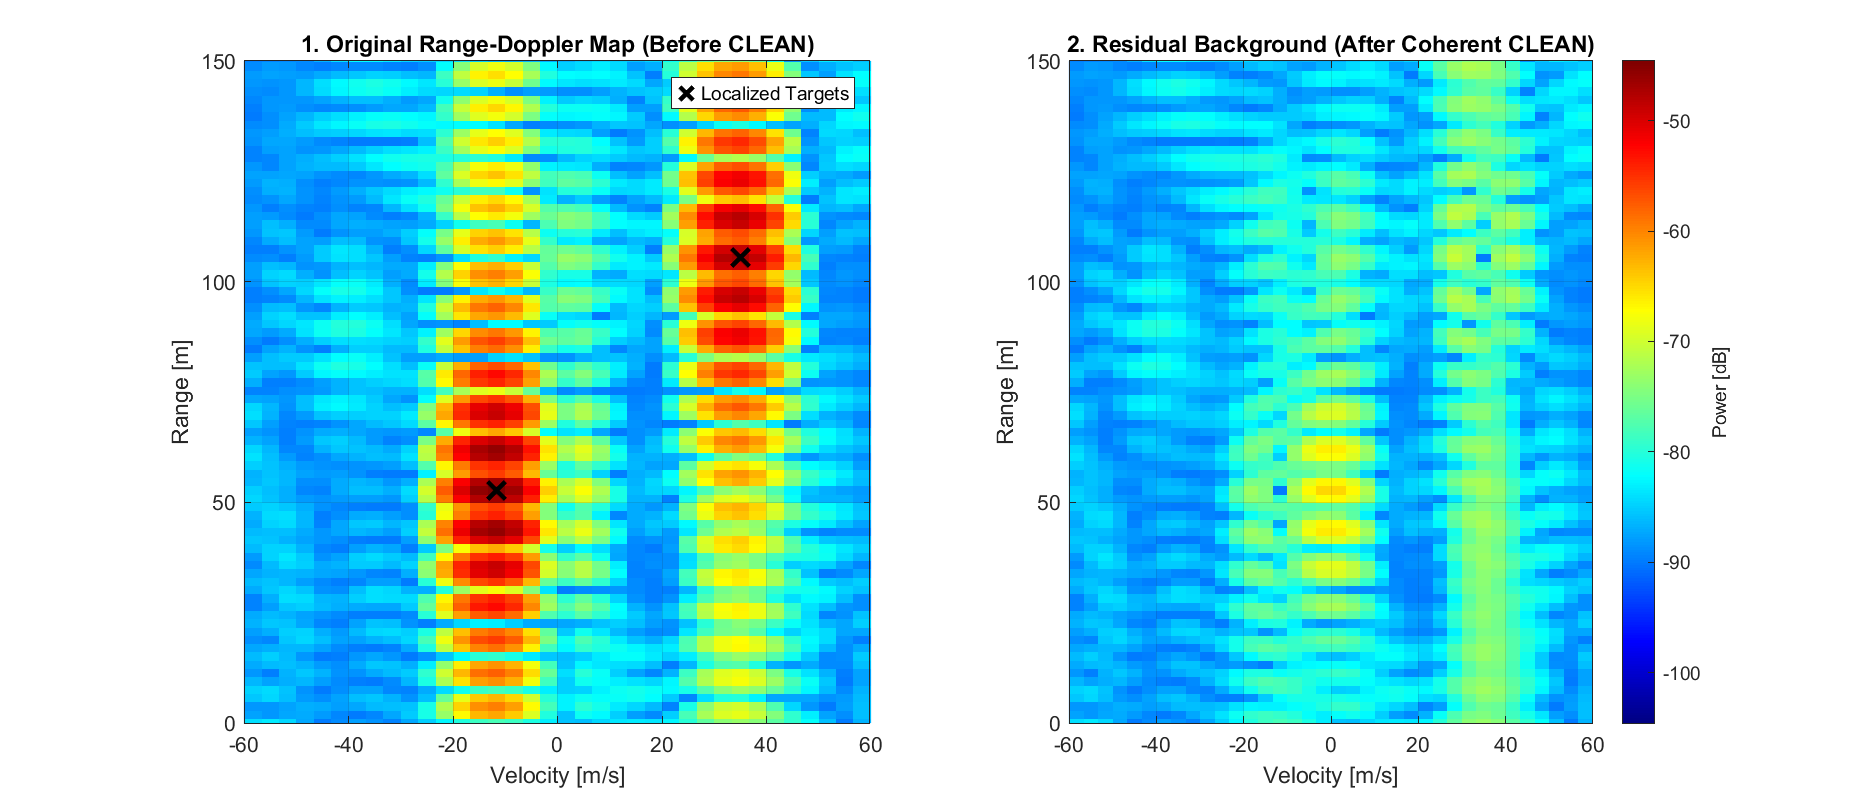
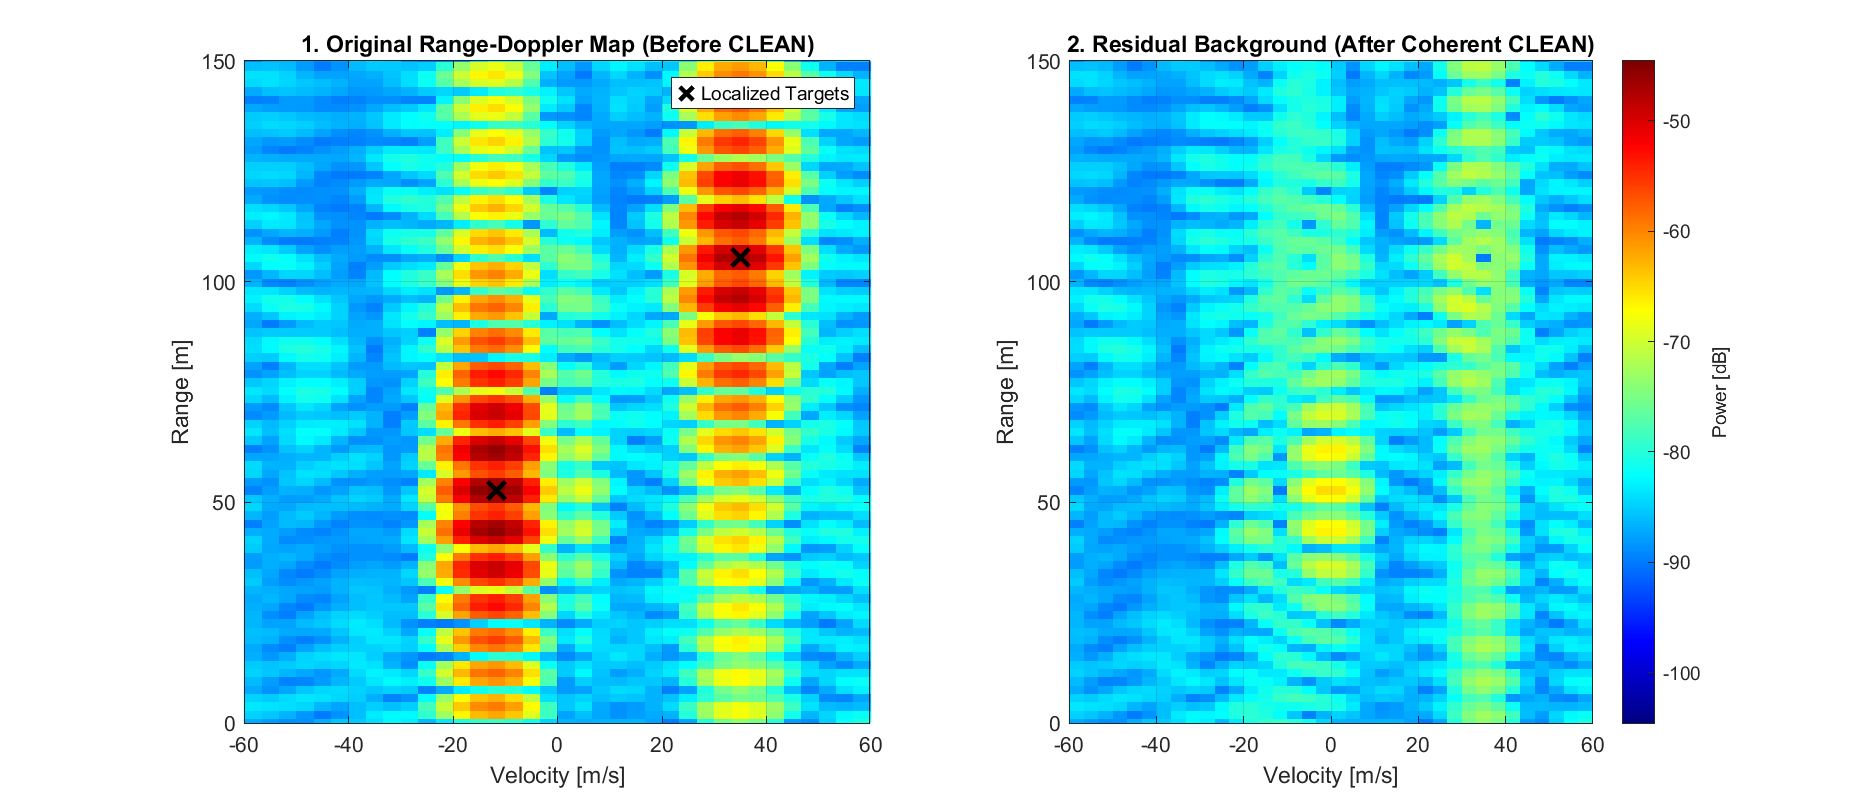
Names corrections

Changed region(s): [[0.5568, 0.0616, 0.8661, 0.8929], [0.1237, 0.0616, 0.464, 0.8929]]

diff --git a/lib/find_packet_start.m b/lib/find_packet_start.m
@@ -1,8 +1,8 @@
 function [start_index, metric] = find_packet_start(signal, threshold)
 % FIND_PACKET_START Detects 802.11 packet start using the Schmidl-Cox autocorrelation metric.
 %
-% Original baseline implementation: Patryk
-% Refactoring & optimization: Tymoteusz Woźniak
+% Original baseline implementation: Patryk Pajerski
+% Refactoring & optimization: Tymon Woźniak
 %
 % Inputs:
 %   signal    - Complex received time-domain baseband signal
